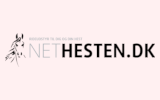
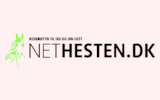
Edit bg color to gradient,

Changed region(s): [[0.0312, 0.33, 0.5312, 0.66]]

diff --git a/resources/css/style.css b/resources/css/style.css
@@ -7,6 +7,20 @@ html {
   font-size: 16px;
 }
 
+/* background gradients */
+
+.gradient {
+  background-image: linear-gradient(
+    hsla(355, 100%, 97%),
+    hsla(355, 100%, 97%) 20%,
+    hsla(149, 42%, 94%) 30%,
+    hsla(149, 42%, 94%) 45%,
+    hsla(355, 100%, 97%) 55%,
+    hsla(355, 100%, 97%) 70%,
+    hsla(149, 42%, 94%) 80%
+  );
+}
+
 /* Header  */
 
 header {
@@ -168,7 +182,7 @@ a:active {
   display: flex;
   justify-content: center;
   align-items: center;
-  background-color: hsla(149, 42%, 94%);
+  /*background-color: hsla(149, 42%, 94%);*/
   margin-top: 100px;
   height: 420px;
   }
@@ -207,7 +221,7 @@ a:active {
   display: flex;
   justify-content: center;
   align-items: center;
-  background-color: hsla(355, 100%, 97%);
+  /*background-color: hsla(355, 100%, 97%);*/
   height: 420px;
 }
 
@@ -221,7 +235,7 @@ a:active {
 /* clients */
 
 .clients-container {
-  background-color: hsla(149, 42%, 94%);
+  /*background-color: hsla(149, 42%, 94%);*/
   display: flex;
   flex-wrap: wrap;
   justify-content: center;
@@ -258,7 +272,6 @@ h4 {
 
 .rectangle {
   display: flex;
-  background-color: hsla(149, 42%, 94%);
   height: 100px;
   width: 160px;
   /*margin: 75px 5px;*/

diff --git a/index.html b/index.html
@@ -11,7 +11,7 @@
 
     <!-- Main -->
 
-    <div class="main">
+    <div class="main gradient">
 
     <!-- Header -->
 
@@ -80,8 +80,6 @@
       <a><img src="resources\images\awards\2016_AFSA_JC_DarkBlue_small.jpg" height="110" width="500" /></a>
       <a><img src="resources\images\awards\2017_AFSA_JC_DarkBlue_small.jpg" height="110" width="500" /></a>
     </div>
-
-</div>
 
 <!-- clients container -->
 
@@ -173,6 +171,7 @@
         </a>
       </div>
     </div>
+  </div>
 </div>
 
 <!-- footer -->
